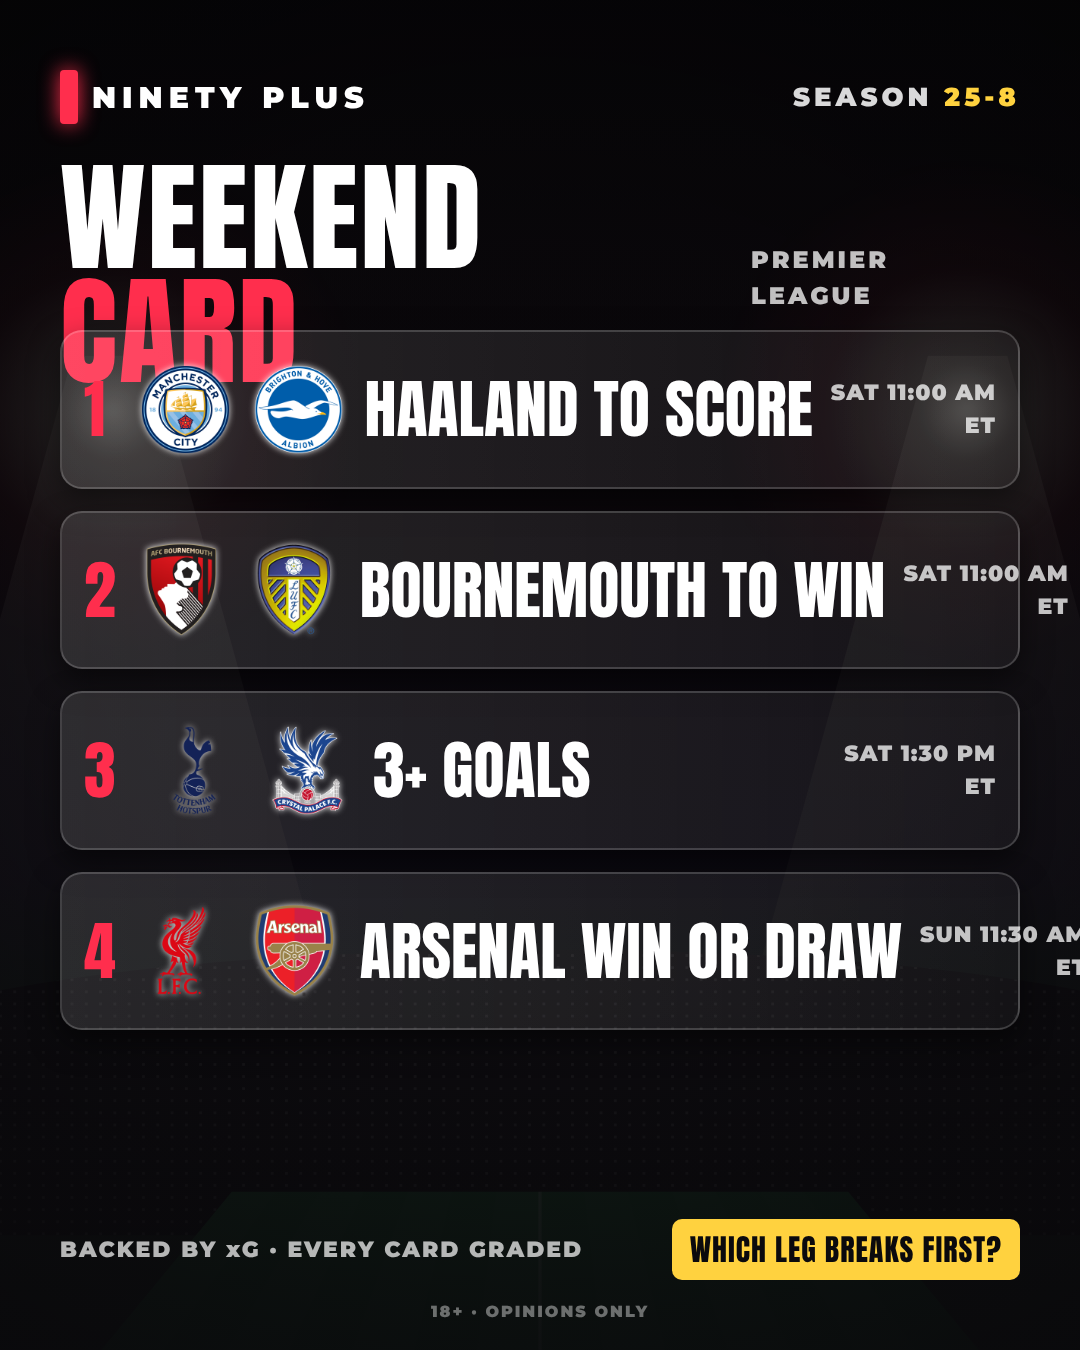
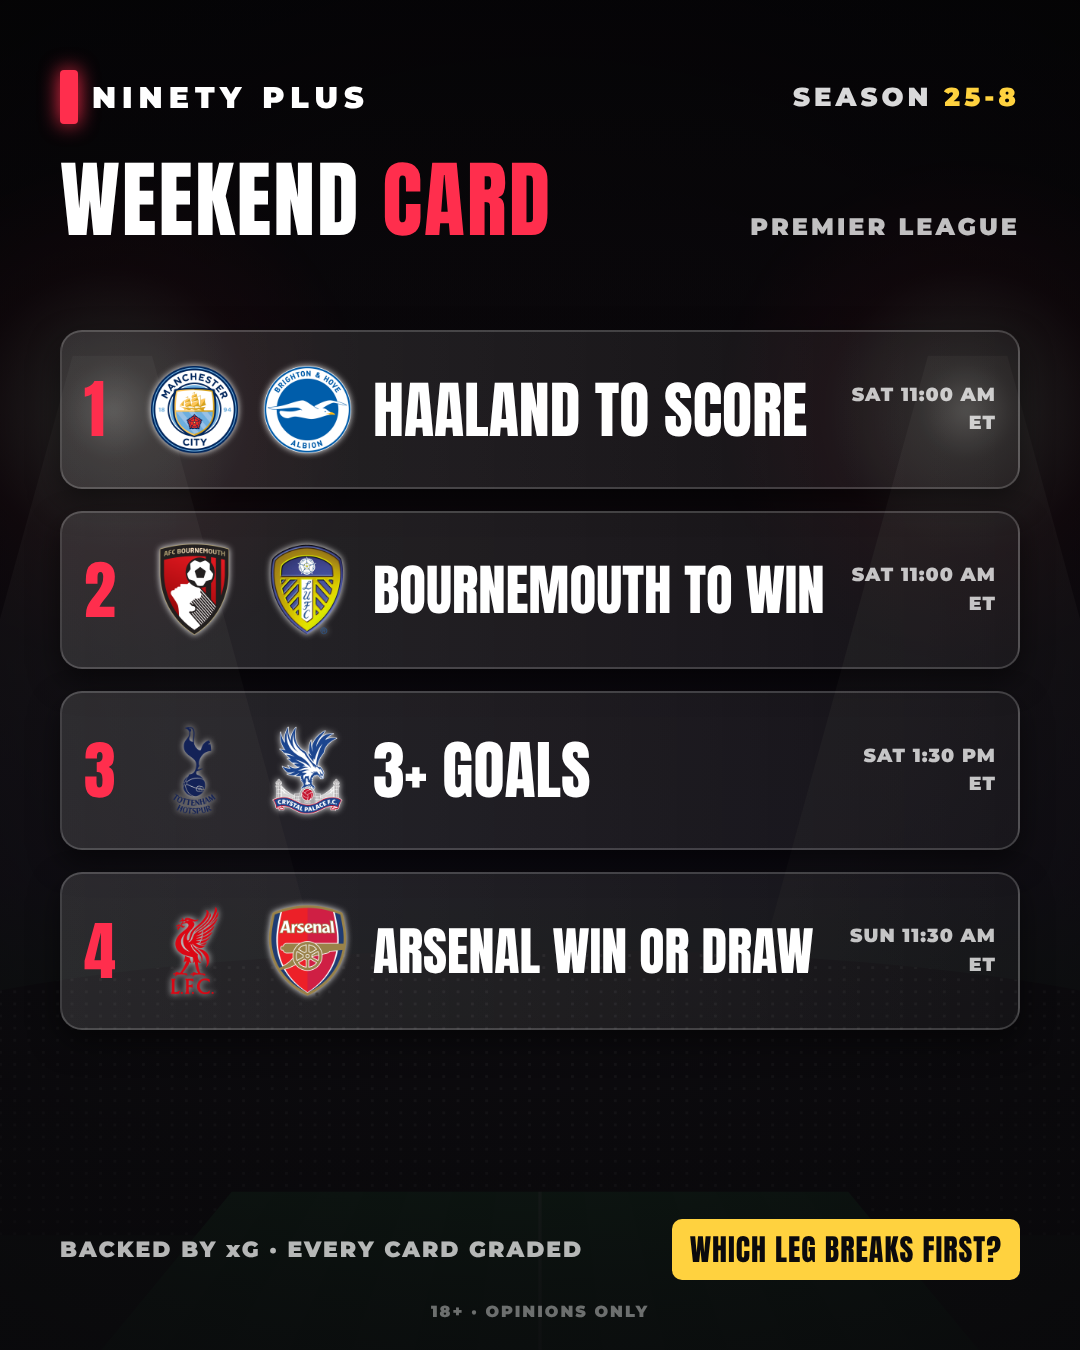
XCard: titles never wrap, row text and kick-off times sized to fit (fixes the overlapping WEEKEND CARD image); np-018 X images re-made
Claude-Session: https://claude.ai/code/session_01577joA6vjLNSCZnympgnAj

diff --git a/src/templates/XCard.tsx b/src/templates/XCard.tsx
@@ -36,8 +36,8 @@ export const XCard: React.FC<{ spec: CardSpec; tall?: boolean; handle?: string }
         <div style={{ fontFamily: HV(), fontSize: tall ? 26 : 22, letterSpacing: 4, color: 'rgba(255,255,255,0.85)' }}>SEASON <span style={{ color: GOLD }}>{spec.record}</span></div>
       </div>
       <div style={{ position: 'absolute', top: tall ? 160 : 100, left: pad, right: pad, display: 'flex', alignItems: 'baseline', justifyContent: 'space-between' }}>
-        <div style={{ fontFamily: D(), fontSize: tall ? 120 : 84, lineHeight: 0.95, color: '#fff', letterSpacing: 2 }}>{spec.title[0]} <span style={{ color: RED }}>{spec.title[1]}</span></div>
-        <div style={{ fontFamily: HV(), fontSize: tall ? 24 : 20, letterSpacing: 3, color: 'rgba(255,255,255,0.75)' }}>{spec.tag}</div>
+        <div style={{ fontFamily: D(), fontSize: Math.min(tall ? 120 : 84, Math.floor((tall ? 1350 : 1500) / (spec.title.join(' ').length + 4))), lineHeight: 0.95, color: '#fff', letterSpacing: 2, whiteSpace: 'nowrap' }}>{spec.title[0]} <span style={{ color: RED }}>{spec.title[1]}</span></div>
+        <div style={{ fontFamily: HV(), fontSize: tall ? 24 : 20, letterSpacing: 3, color: 'rgba(255,255,255,0.75)', whiteSpace: 'nowrap', marginLeft: 20 }}>{spec.tag}</div>
       </div>
       {/* rows */}
       <div style={{ position: 'absolute', top: tall ? 330 : 205, left: pad, right: pad, display: 'flex', flexDirection: 'column', gap: tall ? 22 : 12 }}>
@@ -46,8 +46,8 @@ export const XCard: React.FC<{ spec: CardSpec; tall?: boolean; handle?: string }
             <div style={{ fontFamily: D(), fontSize: fs, color: RED, width: fs * 0.7 }}>{i + 1}</div>
             <Img src={crest(p.h)} style={{ width: rowH * 0.6, height: rowH * 0.6, objectFit: 'contain', filter: OUTLINE }} />
             <Img src={crest(p.a)} style={{ width: rowH * 0.6, height: rowH * 0.6, objectFit: 'contain', filter: OUTLINE }} />
-            <div style={{ fontFamily: D(), fontSize: fs, color: '#fff', flex: 1, whiteSpace: 'nowrap' }}>{p.row ?? p.pill}</div>
-            <div style={{ fontFamily: HV(), fontSize: tall ? 22 : 18, color: 'rgba(255,255,255,0.75)', letterSpacing: 1, whiteSpace: 'nowrap', textAlign: 'right' }}>{p.time}<br />ET</div>
+            <div style={{ fontFamily: D(), fontSize: Math.min(fs, Math.floor(((tall ? 1080 : 1200) - 2 * pad - 44 - fs * 0.7 - 2 * rowH * 0.6 - 3 * 18 - (tall ? 125 : 110)) / ((p.row ?? p.pill).length * 0.5))), color: '#fff', flex: 1, whiteSpace: 'nowrap', overflow: 'hidden' }}>{p.row ?? p.pill}</div>
+            <div style={{ fontFamily: HV(), fontSize: tall ? 19 : 16, color: 'rgba(255,255,255,0.75)', letterSpacing: 1, whiteSpace: 'nowrap', textAlign: 'right', flexShrink: 0 }}>{p.time}<br />ET</div>
           </div>
         ))}
       </div>
